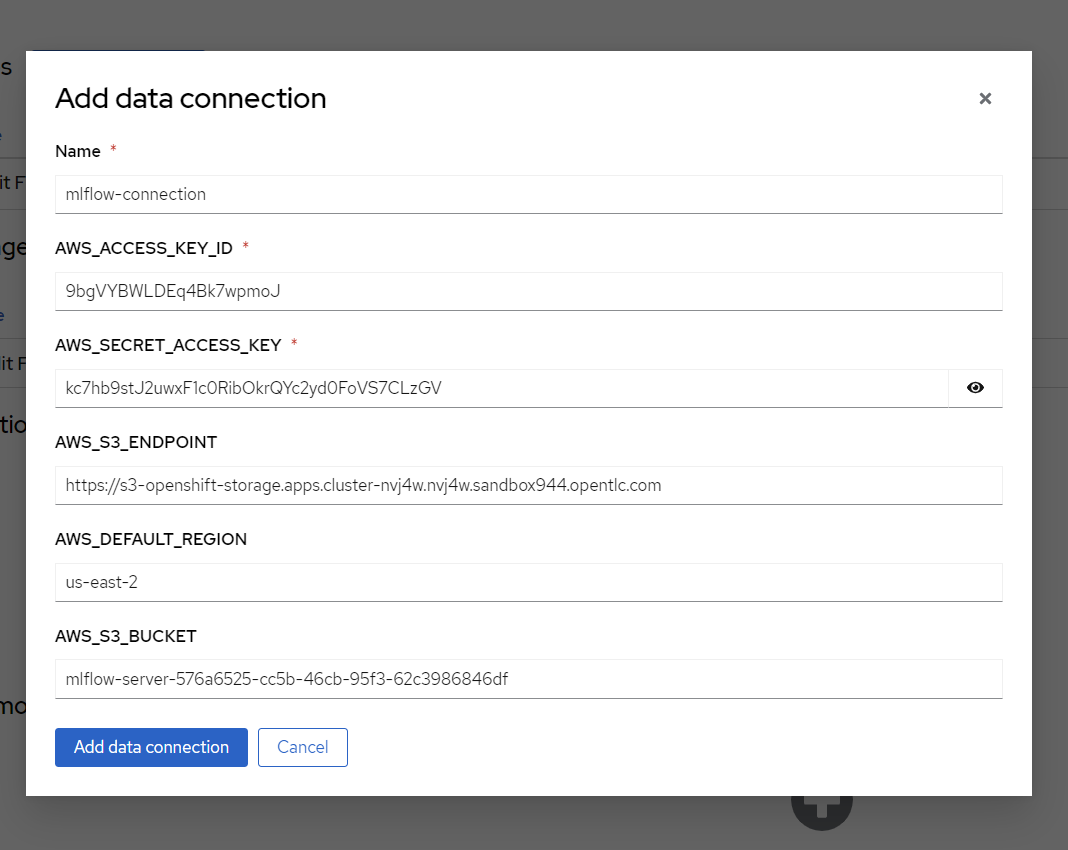
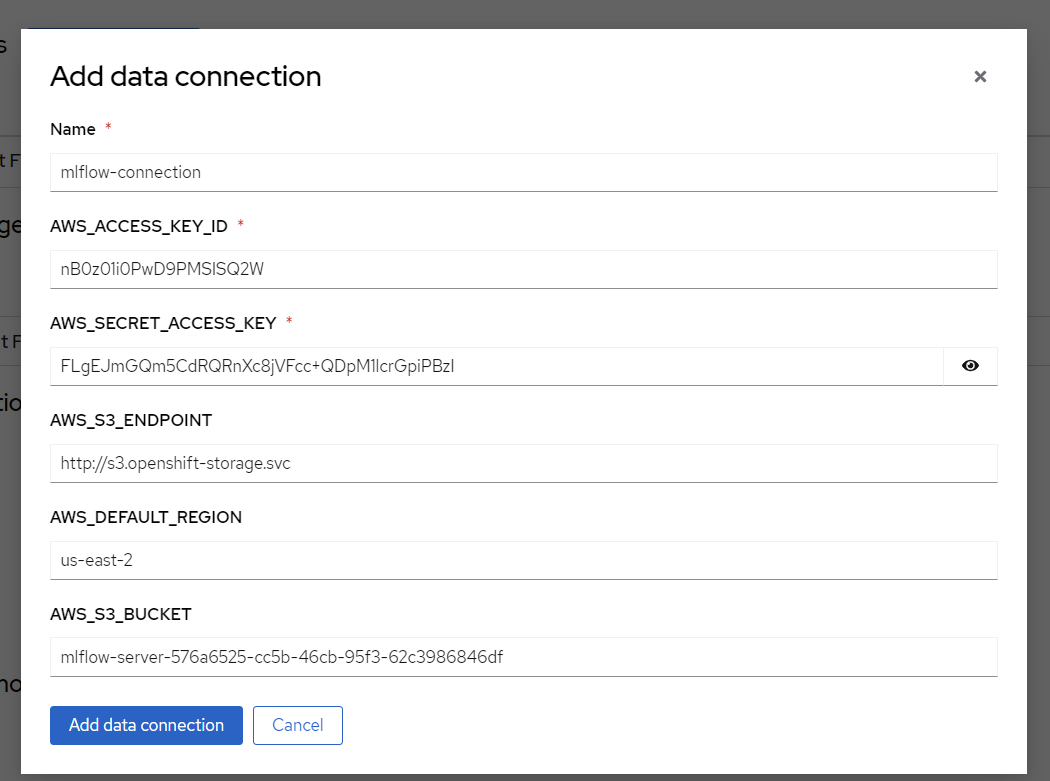
Updated README

Changed region(s): [[0.0, 0.0307, 1.0, 1.0], [0.061, 0.338, 0.2743, 0.3688], [0.061, 0.2151, 0.2133, 0.2458]]

diff --git a/README.md b/README.md
@@ -1,17 +1,21 @@
 # Credit Card Fraud Detection Demo using MLFlow and Red Hat OpenShift Data Science
+
 [GitHub Source](https://github.com/red-hat-data-services/credit-fraud-detection-demo)
 
-## Pre-requisites:
+## Pre-requisites
+
 - Have [Red Hat OpenShift Data Science](/getting-started/openshift-data-science/) (RHODS) running in a cluster
-    - Note: You can use [Open Data Hub](/getting-started/opendatahub/) instead of RHODS, but some instructions and screenshots may not apply
+  - Note: You can use [Open Data Hub](/getting-started/opendatahub/) instead of RHODS, but some instructions and screenshots may not apply
 - Have [MLFlow](/tools-and-applications/mlflow/mlflow/) running in a cluster
 
 ## Demo Description & Architecture
-The goal of this demo is to demonstrate how RHODS and MLFlow can be used together to build an end-to-end MLOps platform where we can: 
+
+The goal of this demo is to demonstrate how RHODS and MLFlow can be used together to build an end-to-end MLOps platform where we can:
 
 - Build and train models in RHODS
 - Track and store those models with MLFlow
-- Deploy a model application in OpenShift that runs predictions with a specific model from MLFlow
+- Serve a model stored in MLFlow using RHODS Model Serving (or MLFlow serving)
+- Deploy a model application in OpenShift that runs sends data to the served model and displays the prediction
 
 The architecture looks like this:
 ![Diagram](img/Diagram.PNG)
@@ -22,50 +26,58 @@ Description of each component:
 - **RHODS Notebook:** We will build and train the model using a Jupyter Notebook running in RHODS.
 - **MLFlow Experiment tracking:** We use MLFlow to track the parameters and metrics (such as accuracy, loss, etc) of a model training run. These runs can be grouped under different "experiments", making it easy to keep track of the runs.
 - **MLFlow Model registry:** As we track the experiment we also store the trained model through MLFlow so we can easily version it and assign a stage to it (for example Staging, Production, Archive).
-- **S3 (ODF):** This is where the models are physically stored and what the MLFlow model registry interfaces with. We use ODF (OpenShift Data Foundation) according to the [MLFlow guide](/tools-and-applications/mlflow/mlflow/), but it can be replaced with another storage.  
+- **S3 (ODF):** This is where the models are stored and what the MLFlow model registry interfaces with. We use ODF (OpenShift Data Foundation) according to the [MLFlow guide](/tools-and-applications/mlflow/mlflow/), but it can be replaced with another solution.  
+- **RHODS Model Serving:** We recommend using RHODS Model Serving for serving the model. It's based on ModelMesh and allows us to easily send requests to an endpoint for getting predictions.
 - **Application interface:** This is the interface used to run predictions with the model. In our case, we will build a visual interface (interactive app) using Gradio and let it load the model from the MLFlow model registry.
 
 The model we will build is a Credit Card Fraud Detection model, which predicts if a credit card usage is fraudulent or not depending on a few parameters such as: distance from home and last transaction, purchase price compared to median, if it's from a retailer that already has been purchased from before, if the PIN number is used and if it's an online order or not.
 
-
 ## Deploying the demo
 
 ### 1.1: MLFlow Route through the visual interface
+
 Start by finding your route to MLFlow. You will need it to send any data to MLFlow.
 
 - Go to the OpenShift Console as a Developer
-- Select your mlflow project 
-- Press Topology 
-- Press the mlflow-server circle 
-    - While you are at it, you can also press the little "Open URL" button in the top right corner of the circle to open up the MLFlow UI in a new tab - we will need it later.
-- Go to the Resources tab 
-- Press mlflow-server under Services 
-- Look at the Hostname and mlflow-server Port.  
+- Select your mlflow project
+- Press Topology
+- Press the mlflow-server circle
+  - While you are at it, you can also press the little "Open URL" button in the top right corner of the circle to open up the MLFlow UI in a new tab - we will need it later.
+- Go to the Resources tab
+- Press mlflow-server under Services
+- Look at the Hostname and mlflow-server Port.
 NOTE: This route and port only work internally in the cluster.
 
 ![Find mlflow-server-service](img/mlflow-server-service.png)
 ![Find the hostname and port](img/hostname-and-port.png)
 
 ### 1.2: Get the MLFlow Route using command-line
-Alternatively, you can use the OC command to get the route through: `oc get route mlflow -n mlflow | grep mlflow`
+Alternatively, you can use the OC command to get the hostname through:  
+`oc get svc mlflow-server -n mlflow -o go-template --template='{{.metadata.name}}.{{.metadata.namespace}}.svc.cluster.local{{println}}'`  
+
+The port you will find with: `oc get svc mlflow-server -n mlflow -o yaml` 
+![OC Get Port](img/OC_Get_Port.png)
 
 ### 2: Create a RHODS workbench
+
 Start by opening up RHODS by clicking on the 9 square symbol in the top menu and choosing "Red Hat OpenShift Data Science".
 
 ![Open RHODS](img/Open_RHODS.png)
 
-Then create a new Data Science project (see image), this is where we will build and train our model. This will also create a namespace in OpenShift which is where we will be running our application after the model is done.  
+Then create a new Data Science project (see image), this is where we will build and train our model. This will also create a namespace in OpenShift which is where we will be running our application after the model is done.
 I'm calling my project 'Credit Card Fraud', feel free to call yours something different but be aware that some things further down in the demo may change.
 
 ![Create Data Science Project](img/Create_data_science_project.png)
 
-After the project has been created, create a workbench where we can run Jupyter.  
+After the project has been created, create a workbench where we can run Jupyter.
 There are a few important settings here that we need to set:
 
-- **Name:** I simply call it "Credit Fraud Model", but feel free to call it something else.
+- **Name:** Credit Fraud Model
 - **Notebook Image:** Standard Data Science
 - **Deployment Size:** Small
-- **Environment Variable:** Add a new one that's a Config Map -> Key/value and enter `MLFLOW_ROUTE` as the key and `http://<route-to-mlflow>:<port>` as the value, replacing `<route-to-mlflow>` and `<port>` with the  route and port that we found in [step one](#11-mlflow-route-through-the-visual-interface).  In my case it is `http://mlflow-server.mlflow.svc.cluster.local:8080`.
+- **Environment Variable:** Add a new one that's a **Config Map -> Key/value** and enter 
+    - **Key:** `MLFLOW_ROUTE` 
+    - **Value:** `http://<route-to-mlflow>:<port>`, replacing `<route-to-mlflow>` and `<port>` with the route and port that we found in [step one](#11-mlflow-route-through-the-visual-interface).  In my case it is `http://mlflow-server.mlflow.svc.cluster.local:8080`.
 - **Cluster Storage:** Create new persistent storage - I call it "Credit Fraud Storage" and set the size to 20GB.
 
 ![Workbench Settings](img/Workbench_Settings.png)
@@ -77,39 +89,42 @@ Press Create Workbench and wait for it to start - status should say "Running" an
 Open the workbench and login if needed.
 
 ### 3: Train the model
-When inside the workbench (Jupyter), we are going to clone a GitHub repository which contains everything we need to train our model.  
+When inside the workbench (Jupyter), we are going to clone a GitHub repository which contains everything we need to train (and run) our model.  
 You can clone the GitHub repository by pressing the GitHub button in the left side menu (see image), then select "Clone a Repository" and enter this GitHub URL: [https://github.com/red-hat-data-services/credit-fraud-detection-demo](https://github.com/red-hat-data-services/credit-fraud-detection-demo) 
 
 ![Jupyter](img/Jupyter.png)
 
-Open up the folder that was added (credit-fraud-detection-demo).  
+Open up the folder that was added (credit-fraud-detection-demo).
 It contains:
 
 - Data for training and evaluating the model.
 - A notebook (model.ipynb) inside the `model` folder with a Deep Neural Network model we will train.
 - An application (model_application.py) inside the `application` folder that will fetch the trained model from MLFlow and run a prediction on it whenever it gets any user input.
 
-The `model.ipynb` is what we are going to use for building and training the model, so open that up and take a look inside, there is documentation outlining what each cell does. What is particularly interesting for this demo are the last two cells.  
+The `model.ipynb` is what we are going to use for building and training the model, so open that up and take a look inside, there is documentation outlining what each cell does. What is particularly interesting for this demo are the last two cells.
 
 The second to last cell contains the code for setting up MLFlow tracking:
-```
+
+```python
 mlflow.set_tracking_uri(MLFLOW_ROUTE)
 mlflow.set_experiment("DNN-credit-card-fraud")
 mlflow.tensorflow.autolog(registered_model_name="DNN-credit-card-fraud")
 ```
-`mlflow.set_tracking_uri(MLFLOW_ROUTE)` just points to where we should send our MLFlow data.  
-`mlflow.set_experiment("DNN-credit-card-fraud")` tells MLFlow that we want to create an experiment, and what we are going to call it. In this case I call it "DNN-credit-card-fraud" as we are building a Deep Neural Network.  
+
+`mlflow.set_tracking_uri(MLFLOW_ROUTE)` just points to where we should send our MLFlow data.
+`mlflow.set_experiment("DNN-credit-card-fraud")` tells MLFlow that we want to create an experiment, and what we are going to call it. In this case I call it "DNN-credit-card-fraud" as we are building a Deep Neural Network.
 `mlflow.tensorflow.autolog(registered_model_name="DNN-credit-card-fraud")` enables autologging of a bunch of variables (such as accuracy, loss, etc) so we don't manually have to track them. It also automatically uploads the model to MLFlow after the training completes. Here we name the model the same as the experiment.
 
 Then in the last cell we have our training code:
-```
+
+```python
 with mlflow.start_run():
     epochs = 2
     history = model.fit(X_train, y_train, epochs=epochs, \
                         validation_data=(scaler.transform(X_val),y_val), \
                         verbose = True, class_weight = class_weights)
 
-    y_pred_temp = model.predict(scaler.transform(X_test)) 
+    y_pred_temp = model.predict(scaler.transform(X_test))
 
     threshold = 0.995
 
@@ -131,18 +146,18 @@ with mlflow.start_run():
     mlflow.onnx.log_model(model_proto, "models")
 ```
 `with mlflow.start_run():` is used to tell MLFlow that we are starting a run, and we wrap our training code with it to define exactly what code belongs to the "run".  
-Most of the rest of the code in this cell is normal model training and evaluation code, but at the bottom we can see how we send some custom metrics to MLFlow through `mlflow.log_metric` and then convert the model to ONNX. This is because ONNX is one of the standard formats for RHODS Serving we will use later.
+Most of the rest of the code in this cell is normal model training and evaluation code, but at the bottom we can see how we send some custom metrics to MLFlow through `mlflow.log_metric` and then convert the model to ONNX. This is because ONNX is one of the standard formats for RHODS Model Serving which we will use later.
 
 
 Now run all the cells in the notebook from top to bottom, either by clicking Shift-Enter on every cell, or by going to Run->Run All Cells in the very top menu.  
 If everything is set up correctly it will train the model and push both the run and the model to MLFlow.  
-The run is a record with metrics of how the run went, while the model is the actual tensorflow model which we later will use for inference.  
+The run is a record with metrics of how the run went, while the model is the actual tensorflow and ONNX model which we later will use for inference.  
 You may see some warnings in the last cell related to MLFlow, as long as you see a final progressbar for the model being pushed to MLFlow you are fine:
 ![Trained model](img/Trained_model.png)
 
 ### 4: View the model in MLFlow
 Let's take a look at how it looks inside MLFlow now that we have trained the model.  
-If you opened the MLFlow UI in a new tab in step 1.1, then just swap over to that tab, otherwise follow these steps:
+If you opened the MLFlow UI in a new tab in [step 1.1](#11-mlflow-route-through-the-visual-interface), then just swap over to that tab, otherwise follow these steps:
 
 - Go to the OpenShift Console
 - Make sure you are in Developer view in the left menu
@@ -152,19 +167,20 @@ If you opened the MLFlow UI in a new tab in step 1.1, then just swap over to tha
 
 ![Open MLFlow UI](img/Open_MLFlow_UI.png)
 
-When inside the MLFlow interface you should see your new experiment in the left menu. Click on it to see all the runs under that experiment name, there should only be a single run from the model we just trained.  
+When inside the MLFlow interface you should see your new experiment in the left menu. Click on it to see all the runs under that experiment name, there should only be a single run from the model we just trained.
 You can now click on the row in the Created column to get more information about the run and how to use the model from MLFlow.
 
 ![MLFlow view](img/MLFlow_view.png)
 
-We will need the Full Path of the model in the next section when we are going to serve it, keep this open. 
+We will need the Full Path of the model in the next section when we are going to serve it, so keep this open. 
 
 ![MLFlow Model Path](img/MLFlow_Model_Path.png)
 
 
 ### 5: Serve the model
-Now that we have a model trained and tracked, let's serve it using RHODS Serving.
-We are going to need a few details to load and serve the model, so bear with me.
+> **NOTE:** You can either serve the model using RHODS Model Serving or use the model straight from MLFlow.  
+> We will here show how you serve it with RHODS Model Serving as that scales better for large applications and load.  
+> At the bottom of this section we'll go through how it would look like to use MLFlow instead.
 
 To start, go to your RHODS Project and click "Add data connection".
 This data connection connects us to a storage we can load our models from.
@@ -173,13 +189,13 @@ This data connection connects us to a storage we can load our models from.
 
 Here we need to fill out a few details. These are all assuming that you set up MLFlow according to this [guide](/tools-and-applications/mlflow/mlflow/) and have it connected to ODF. If that's not the case then enter the relevant details for your usecase.
 
-- **Name**: I call it `mlflow-connection`, feel free to call it something else
-- **AWS_ACCESS_KEY_ID**: Run `kubectl get secret noobaa-admin -n openshift-storage -o json | jq -r '.data.AWS_ACCESS_KEY_ID|@base64d'` in your command prompt to get this, in my case it's `9bgVYBWLDEq4Bk7wpmoJ`
-- **AWS_SECRET_ACCESS_KEY**: Run `kubectl get secret noobaa-admin -n openshift-storage -o json | jq -r '.data.AWS_SECRET_ACCESS_KEY|@base64d'` in your command prompt to get this, in my case it's `kc7hb9stJ2uwxF1c0RibOkrQYc2yd0FoVS7CLzGV`.  
-NOTE: In my case the cluster and storage has already been shut down, don't share this in normal cases.
-- **AWS_S3_ENDPOINT**: Run `oc describe noobaa -n openshift-storage | grep https://s3-openshift-storage.apps` in your command prompt to get this, in my case it's `https://s3-openshift-storage.apps.cluster-nvj4w.nvj4w.sandbox944.opentlc.com`
+- **Name**: mlflow-connection
+- **AWS_ACCESS_KEY_ID**: Run `oc get secrets mlflow-server -n mlflow -o json | jq -r '.data.AWS_ACCESS_KEY_ID|@base64d'` in your command prompt, in my case it's `nB0z01i0PwD9PMSISQ2W`
+- **AWS_SECRET_ACCESS_KEY**: Run `oc get secrets mlflow-server -n mlflow -o json | jq -r '.data.AWS_SECRET_ACCESS_KEY|@base64d'` in your command prompt, in my case it's `FLgEJmGQm5CdRQRnXc8jVFcc+QDpM1lcrGpiPBzI`.  
+> **NOTE:** In my case the cluster and storage has already been shut down, don't share this in normal cases.
+- **AWS_S3_ENDPOINT**: Run `oc get configmap mlflow-server -n mlflow -o yaml | grep BUCKET_HOS` in your command prompt, in my case it's `http://s3.openshift-storage.svc`
 - **AWS_DEFAULT_REGION**: Where the cluster is being ran
-- **AWS_S3_BUCKET**: *TODO, Fill in with correct directions!* In my case it's `mlflow-server-576a6525-cc5b-46cb-95f3-62c3986846df`
+- **AWS_S3_BUCKET**: Run `oc get obc -n mlflow -o yaml | grep bucketName` in your command prompt, in my case it's `mlflow-server-576a6525-cc5b-46cb-95f3-62c3986846df`
 
 Then press "Add data connection".  
 Here's an example of how it can look like:  
@@ -194,11 +210,12 @@ Just check the 'Make deployed available via an external route' checkbox and then
 Finally, we will deply the model, to do that, press the "Deploy model" button which is in the same place that "Configure Model" was before.  
 We need to fill out a few settings here:
 
-- **Name**: I call it `credit card fraud`, feel free to call it something else
-- **Model framework**: If you recall from the model training section, we saved the model as ONNX, so select that here
+- **Name**: credit card fraud
+- **Model framework**: onnx-1 - Since we saved the model as ONNX in the [model training section](#3-train-the-model)
 - **Model location**:
     - **Name**: `mlflow-connection`
-    - **Folder path**: This is the full path we can see in the MLFlow interface from the end of the last section. In my case it's `1/b86481027f9b4b568c9efa3adc01929f/artifacts/models/` . Beware that we only need the last part which looks something like: `/1/..../artifacts/models`
+    - **Folder path**: This is the full path we can see in the MLFlow interface from the end of the [previous section](#4-view-the-model-in-mlflow). In my case it's `1/b86481027f9b4b568c9efa3adc01929f/artifacts/models/`.  
+    Beware that we only need the last part, which looks something like: `1/..../artifacts/models/`
     ![MLFlow Model Path](img/MLFlow_Model_Path.png)
 
 ![Deployment Model Options](img/Deployment_Model_Options.png)
@@ -208,7 +225,44 @@ You can see the status here:
 
 ![Deployment Status](img/Deployment_Status.png)
 
-We are going to need the "Inference endpoint" in the next section, so keep track of it.
+Click on "Internal Service" in the same row to see the endpoints, we will need those when we deploy the model application.
+
+**[Optional] MLFlow Serving**:
+!!! warning "This section is optional"
+    This section explains how to use MLFlow Serving instead of RHODS Model Serving.  
+    We recommend using RHODS Model Serving as it scales better. However, if you quickly want to get a model up and running for testing, this would be an easy way.
+
+To use MLFlow serving, simply deploy an application which loads the model straight from MLFlow.
+You can find the model application code for using MLFlow serving in the "application_mlflow_serving" folder in the GitHub repository you cloned in [step 3](#3-train-the-model).
+
+If you look inside `model_application_mlflow_serve.py` you are going to see a few particularly important lines of code:
+```
+# Get a few environment variables. These are so we can:
+# - get data from MLFlow
+# - Set server name and port for Gradio
+MLFLOW_ROUTE = os.getenv("MLFLOW_ROUTE")
+...
+
+# Connect to MLFlow using the route.
+mlflow.set_tracking_uri(MLFLOW_ROUTE)
+
+# Specify what model and version we want to load, and then load it.
+model_name = "DNN-credit-card-fraud"
+model_version = 1
+model = mlflow.pyfunc.load_model(
+    model_uri=f"models:/{model_name}/{model_version}"
+)
+```
+
+Here is where we set up everything that's needed for loading the model from MLFlow. The environment variable MLFLOW_ROUTE is set in the Dockerfile.
+You can also see that we specifically load version 1 of the model called "DNN-credit-card-fraud" from MLFlow. This makes sense since we only ran the model once, but is easy to change if any other version or model should go into production
+
+Follow the steps of the [next section](#6-deploy-the-model-application) to see how to deploy an application, but when given the choice for "Context dir" and "Environment variables (runtime only)", use these settings instead:
+
+- **Context dir:** "/model_application_mlflow_serve"
+- **Environment variables (runtime only)** fields:
+    - **Name**: `MLFLOW_ROUTE`
+    - **Value**: The MLFlow route from [step one](#11-mlflow-route-through-the-visual-interface) (`http://mlflow-server.mlflow.svc.cluster.local:8080` for example)
 
 ### 6: Deploy the model application
 The model application is a visual interface for interacting with the model. You can use it to send data to the model and get a prediction of whether a transaction is fraudulent or not.   
@@ -216,21 +270,40 @@ You can find the model application code in the "application" folder in the GitHu
 
 ![Model Application Folder](img/Model_Application_Folder.PNG)
 
+If you look inside it `model_application.py`, you will see two particularly important lines of code:
+
+```
+# Get a few environment variables. These are so we:
+# - Know what endpoint we should request
+# - Set server name and port for Gradio
+URL = os.getenv("INFERENCE_ENDPOINT") <----------
+...
+
+    response = requests.post(URL, json=payload, headers=headers)  <----------
+```
+
+This is what we use to send a request to our RHODS Model Server with some data we want it to run a prediction on.
+
 We are going to deploy the application with OpenShift by pointing to the GitHub repository.  
 It will pull down the folder, automatically build a container image based on the Dockerfile, and publish it.
 
-To do this, go to the OpenShift Console and make sure you are in **Developer** view and have selected the **credit-card-fraud** project.  
-Then press "+Add" in the left menu and select Import from Git.  
+To do this, go to the OpenShift Console and make sure you are in **Developer** view and have selected the **credit-card-fraud** project.
+Then press "+Add" in the left menu and select Import from Git.
 
 ![Import from Git](img/Import_from_Git.png)
 
-In the "Git Repo URL" enter: [https://github.com/red-hat-data-services/credit-fraud-detection-demo](https://github.com/red-hat-data-services/credit-fraud-detection-demo) (this is the same repository we pulled into RHODS earlier).  
-Then press "Show advanced Git options" and set "Context dir" to "/application".  
+In the "Git Repo URL" enter: [https://github.com/red-hat-data-services/credit-fraud-detection-demo](https://github.com/red-hat-data-services/credit-fraud-detection-demo) (this is the same repository we pulled into RHODS earlier).
+Then press "Show advanced Git options" and set "Context dir" to "/application".
 Finally, at the very bottom, click the blue "Deployment" link:
 
 ![Deployment Options](img/Deployment_Options.png)
 
-And add `INFERENCE_ENDPOINT` as **Name** and your route from the [previous section](#5-serve-the-model) as **Value** (`https://credit-card-fraud-credit-card-fraud.apps.cluster-nvj4w.nvj4w.sandbox944.opentlc.com/v2/models/credit-card-fraud/infer` for example).
+Set these values in the **Environment variables (runtime only)** fields:
+
+- **Name**: `INFERENCE_ENDPOINT`
+- **Value**: In the RHODS projects interface (from the previous section), copy the "restURL" and add `/v2/models/credit-card-fraud/infer` to the end if it's not already there. For example: `http://modelmesh-serving.credit-card-fraud:8008/v2/models/credit-card-fraud/infer`
+![Model Serving UR](img/Model_Serving_URL.png)
+
 
 Your full settings page should look something like this:
 
@@ -238,14 +311,16 @@ Your full settings page should look something like this:
 
 Press Create to start deploying the application.
 
-You should now see two objects in your topology map, one for the Workbench we created earlier and one for the application we just added.  
+You should now see three objects in your topology map, one for the Workbench we created earlier, one for the model serving, and one for the application we just added.  
 When the circle of your deployment turns dark blue it means that it has finished deploying.  
+
 If you want more details on how the deployment is going, you can press the circle and look at Resources in the right menu that opens up. There you can see how the build is going and what's happening to the pod. The application will be ready when the build is complete and the pod is "Running".  
+
 When the application has been deployed you can press the "Open URL" button to open up the interface in a new tab. 
 
 ![Application deployed](img/Application_deployed.png)
 
-Congratulations, you now have an application running your AI model!  
+Congratulations, you now have an application running your AI model!
 
 Try entering a few values and see if it predicts it as a credit fraud or not. You can select one of the examples at the bottom of the application page.
 
